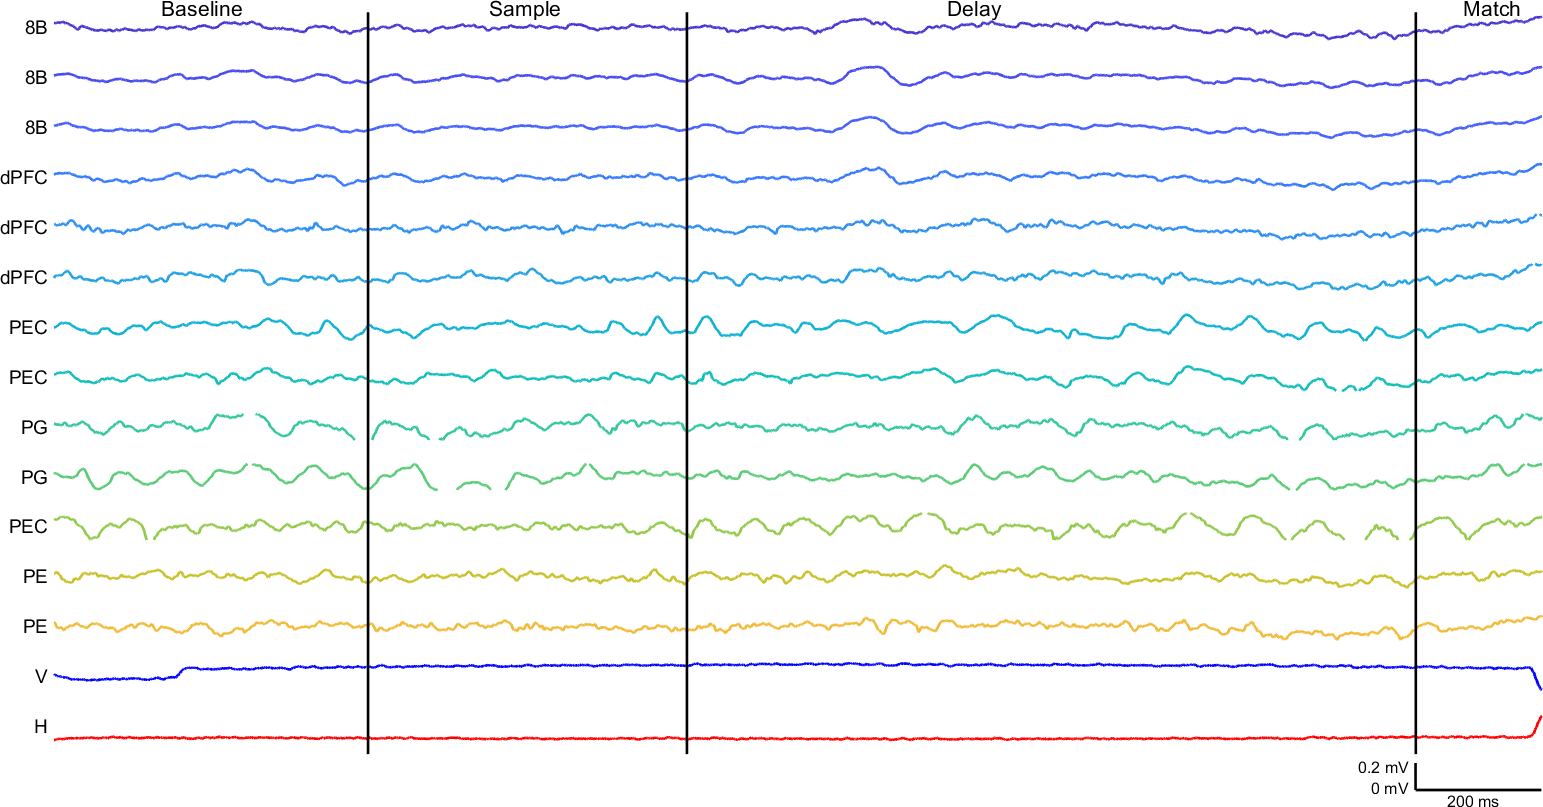
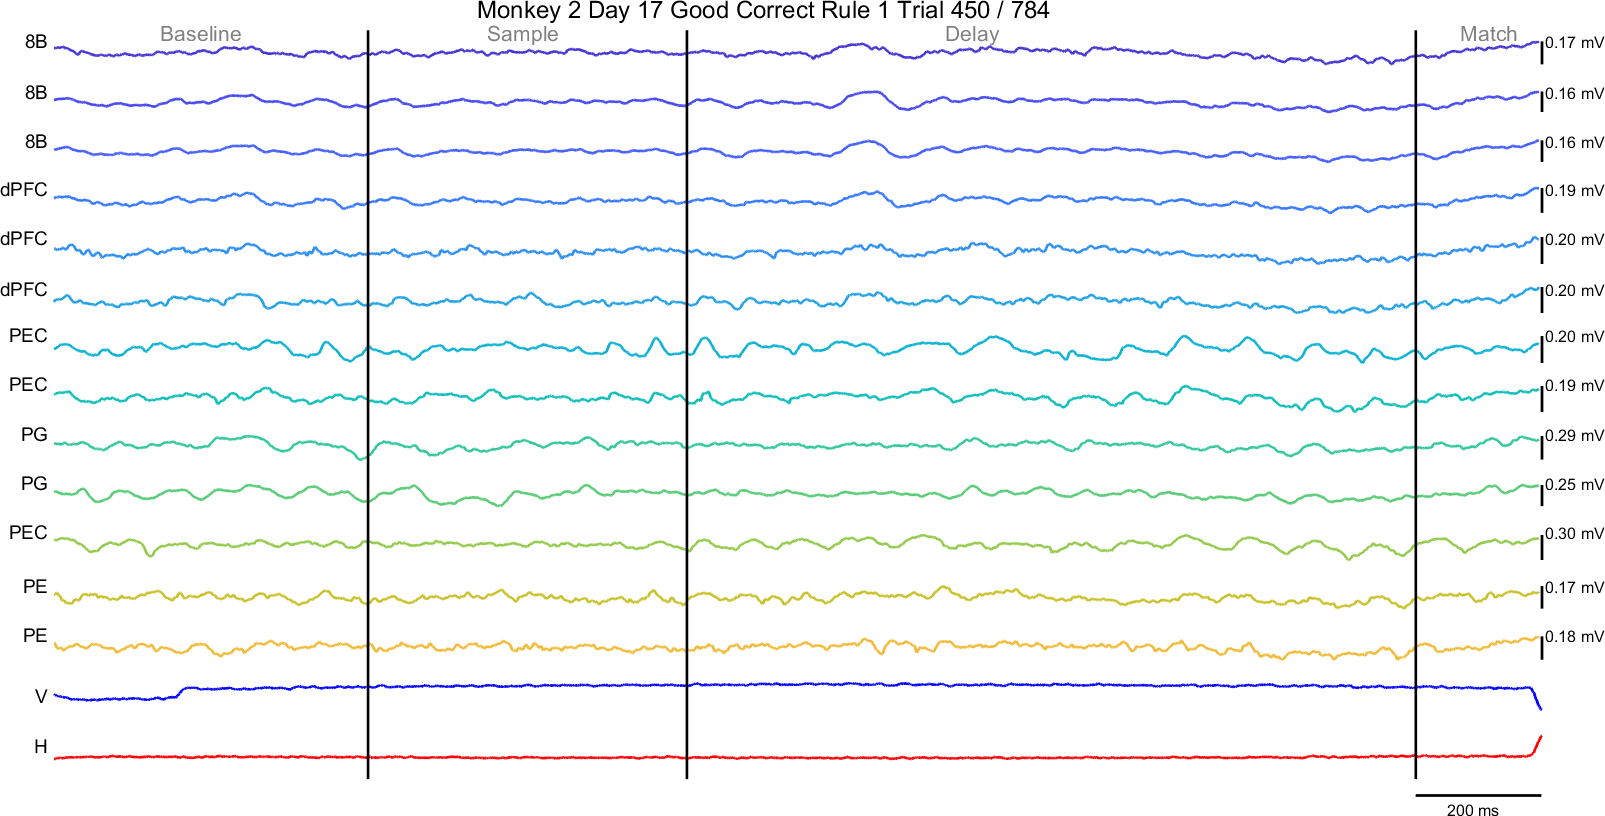
finish v2 of raw trace plot for Charlie using subplot

Changed region(s): [[0.0, 0.0, 1.0, 1.0], [0.9955, 0.8364, 1.0, 0.8984]]

diff --git a/neural data analysis/time_domain.m b/neural data analysis/time_domain.m
@@ -167,6 +167,7 @@ path = 'D:\\OneDrive\\Documents\\PhD @ FAU\\research\\High Frequency FP Activity
 monkey='betty'; %only betty
 days_betty = { '090615', '090616', '090617', '090618', '090622', '090625', '090626', '090629', '090701', '090702', '090706', '090708', '090709', '090901', '090903', '090916', '090917', '090921', '090923', '090924', '090928', '090929', '090930', '091001' };
 day = 17; %look at 17-24
+epochs = {'Baseline','Sample','Delay','Match'};
 trial = 450; %look at second trial for test
 trial_info_path = strcat(path,'%s\\%s\\%s\\trial_info.mat'); %build trial_info path
 trial_infoN = sprintf(trial_info_path,monkey,days_betty{day},"session01"); %create full path to trial_info.mat
@@ -209,8 +210,7 @@ xlabel('Time (ms)')
 title('Vertical eye movements')
 % export_fig eye_movements_trial_302.png -transparent % no background
 
-%next: fix lines based on subplot attempt using matlab answer. figure out
-%pos math used
+%next: see if Charlie wants to keep the y-axis key on the right
 
 % % legacy stackedplot attempt
 % hf=figure; clf
@@ -279,6 +279,7 @@ for subplotN=1:chans
         text(time(x(2)+10),(max(y)-min(y))/2,scale,'FontSize',12,'HorizontalAlignment','left')
 %         set(gca,'ylim',ylimit,'xlim',[time(x(1));time(x(2))],'Visible','off');      
         set(gca,'xlim',[time(x(1));time(x(2)+5)],'Visible','off');      
+        text(time(x(1))-10,(max(y)-min(y))/2,areasN{subplotN},'FontSize',14,'HorizontalAlignment','right')
     elseif subplotN==chans-2 %plot vertical eye movements
         subplot(chans,1,subplotN)
         vem_y = v_eye(trial_info.CueOnset(currTrial)-500:trial_info.MatchOnset(currTrial)+200); %match to time
@@ -339,21 +340,47 @@ allaxes = findobj(gcf,'type','axes'); %aggregate all axes from all subplots
 % text(time(x(2)-201)-10,ylimit(1)+25,'0 mV','FontSize',12,'HorizontalAlignment','right')
 % text(time(x(2)-201)-10,ylimit(1)+175,'0.2 mV','FontSize',12,'HorizontalAlignment','right')
 
+% ax.position = [left bottom width height]
+% The left and bottom elements define the distance from the lower left corner
+% of the container to the lower left corner of the position boundary
+% The width and height elements are the position boundary dimensions.
+
 %draw epoch lines 
-pos(1:3) = allaxes(end).Position(1:3);
-pos(4) = sum(allaxes(2).Position([2 4])) - allaxes(end).Position(2);
+pos(1:3) = allaxes(1).Position(1:3); %get left/bottom/width of bottom axis
+%top of top axis - bottom of bottom axis
+% pos(4) = sum(allaxes(end).Position([2 4])) - allaxes(1).Position(2);
+pos(4) = sum(allaxes(end).Position([2 4])); %top of top axis
 xlims = allaxes(2).XLim; %get limits of x-axis
 %express cumsum of x-coords from pos as a function of x-axis limits, then
 %identify where the lines should be drawn on this scale
 line_locations_norm = interp1(xlims, cumsum(pos([1 3])), triggers);
-axis_height = (pos(4)-pos(2))/chans; %vertical height of each plot
 for i=1:numel(line_locations_norm) %draw the lines
     annotation('line', ...
         [line_locations_norm(i) line_locations_norm(i)], ...
-        [pos(2) pos(2)+pos(4)], ...
+        [pos(2)+allaxes(1).Position(4) pos(4)], ... %start from top of bottom plot
         'Color', 'k', ...
         'LineWidth', 2);
 end
+
+%add epoch labels
+text(allaxes(end),triggers(1)-200,allaxes(end).YLim(2)*1.5,epochs{1},...
+    'FontSize',16,'HorizontalAlignment','right','color',[0.5 0.5 0.5])
+text(allaxes(end),triggers(2)-200,allaxes(end).YLim(2)*1.5,epochs{2},...
+    'FontSize',16,'HorizontalAlignment','right','color',[0.5 0.5 0.5])
+text(allaxes(end),triggers(2)+500,allaxes(end).YLim(2)*1.5,epochs{3},...
+    'FontSize',16,'HorizontalAlignment','right','color',[0.5 0.5 0.5])
+text(allaxes(end),triggers(3)+75,allaxes(end).YLim(2)*1.5,epochs{4},...
+    'FontSize',16,'HorizontalAlignment','left','color',[0.5 0.5 0.5])
+
+trial_title = sprintf('Monkey 2 Day %d Good Correct Rule 1 Trial %d / %d',...
+                day,trial,length(trials));
+sgtitle(trial_title,'FontSize',18);  
+
+% %add epoch labels
+% text(allaxes(end),triggers(1)-200,ya1(1)+150,'Baseline','FontSize',16,'HorizontalAlignment','right')
+% text(allaxes(end),triggers(2)-200,ya1(1)+150,'Sample','FontSize',16,'HorizontalAlignment','right')
+% text(allaxes(end),triggers(2)+500,ya1(1)+150,'Delay','FontSize',16,'HorizontalAlignment','right')
+% text(allaxes(end),triggers(3)+75,ya1(1)+150,'Match','FontSize',16,'HorizontalAlignment','left')
 
 % 
 % %draw lines delineating epochs
@@ -369,15 +396,11 @@ end
 % annotation('line',[xa1(2) xa2(2)],[ya1(2) ya2(2)],'LineWidth',2,'color','k'); %draw lines
 % annotation('line',[xa1(3) xa2(3)],[ya1(3) ya2(3)],'LineWidth',2,'color','k'); %draw lines
 
-%add channel label to each tile
-for axN=1:(chans-3)
-    text(allaxes(axN+3),time(x(1))-10,(ylimit(1)+ylimit(2))/2,areasN{length(areasN)+1-axN},'FontSize',14,'HorizontalAlignment','right')
-end
-%add epoch labels
-text(allaxes(end),triggers(1)-200,ya1(1)+150,'Baseline','FontSize',16,'HorizontalAlignment','right')
-text(allaxes(end),triggers(2)-200,ya1(1)+150,'Sample','FontSize',16,'HorizontalAlignment','right')
-text(allaxes(end),triggers(2)+500,ya1(1)+150,'Delay','FontSize',16,'HorizontalAlignment','right')
-text(allaxes(end),triggers(3)+75,ya1(1)+150,'Match','FontSize',16,'HorizontalAlignment','left')
+% %add channel label to each tile
+% for axN=1:(chans-3)
+%     text(allaxes(axN+3),time(x(1))-10,(ylimit(1)+ylimit(2))/2,areasN{length(areasN)+1-axN},'FontSize',14,'HorizontalAlignment','right')
+% end
+
 
 % title('Monkey 2, Day 17, Good, Correct, Rule 1, Trial 302')
 hf.Color='w'; %Set background color of figure window
